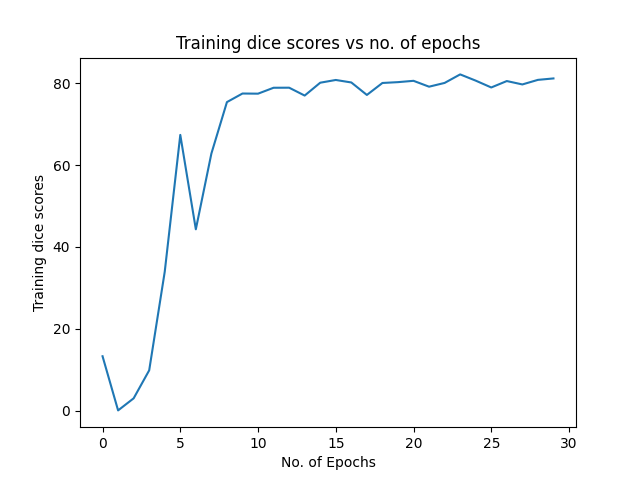
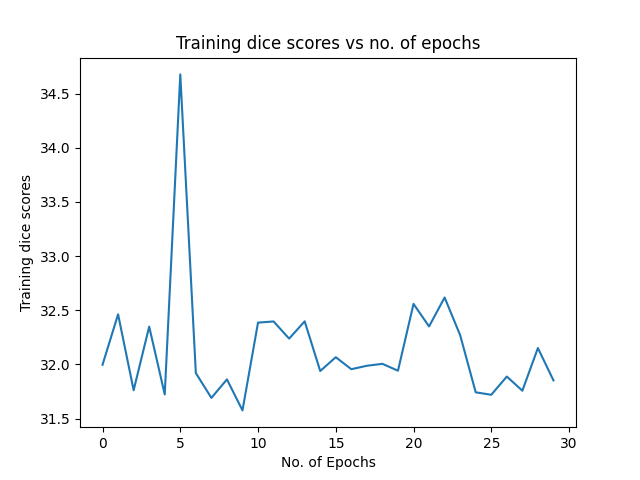
ResNetPlus implementation added

diff --git a/focal_loss.py b/focal_loss.py
@@ -1,91 +1,15 @@
-import numpy as np
 import torch
 import torch.nn as nn
 import torch.nn.functional as F
 
 
 class FocalLoss(nn.Module):
-    """
-    copy from: https://github.com/Hsuxu/Loss_ToolBox-PyTorch/blob/master/FocalLoss/FocalLoss.py
-    This is a implementation of Focal Loss with smooth label cross entropy supported which is proposed in
-    'Focal Loss for Dense Object Detection. (https://arxiv.org/abs/1708.02002)'
-        Focal_Loss= -1*alpha*(1-pt)*log(pt)
-    :param num_class:
-    :param alpha: (tensor) 3D or 4D the scalar factor for this criterion
-    :param gamma: (float,double) gamma > 0 reduces the relative loss for well-classified examples (p>0.5) putting more
-                    focus on hard misclassified example
-    :param smooth: (float,double) smooth value when cross entropy
-    :param balance_index: (int) balance class index, should be specific when alpha is float
-    :param size_average: (bool, optional) By default, the losses are averaged over each loss element in the batch.
-    """
-
-    def __init__(self, apply_nonlin=None, alpha=None, gamma=2, balance_index=0, smooth=1e-5, size_average=True):
+    def __init__(self, alpha=0.25, gamma=2):
         super(FocalLoss, self).__init__()
-        self.apply_nonlin = apply_nonlin
         self.alpha = alpha
         self.gamma = gamma
-        self.balance_index = balance_index
-        self.smooth = smooth
-        self.size_average = size_average
 
-        if self.smooth is not None:
-            if self.smooth < 0 or self.smooth > 1.0:
-                raise ValueError('smooth value should be in [0,1]')
-
-    def forward(self, logit, target):
-        if self.apply_nonlin is not None:
-            logit = self.apply_nonlin(logit)
-        num_class = logit.shape[1]
-
-        if logit.dim() > 2:
-            # N,C,d1,d2 -> N,C,m (m=d1*d2*...)
-            logit = logit.view(logit.size(0), logit.size(1), -1)
-            logit = logit.permute(0, 2, 1).contiguous()
-            logit = logit.view(-1, logit.size(-1))
-        target = torch.squeeze(target, 1)
-        target = target.view(-1, 1)
-        # print(logit.shape, target.shape)
-        # 
-        alpha = self.alpha
-
-        if alpha is None:
-            alpha = torch.ones(num_class, 1)
-        elif isinstance(alpha, (list, np.ndarray)):
-            assert len(alpha) == num_class
-            alpha = torch.FloatTensor(alpha).view(num_class, 1)
-            alpha = alpha / alpha.sum()
-        elif isinstance(alpha, float):
-            alpha = torch.ones(num_class, 1)
-            alpha = alpha * (1 - self.alpha)
-            alpha[self.balance_index] = self.alpha
-
-        else:
-            raise TypeError('Not support alpha type')
-        
-        if alpha.device != logit.device:
-            alpha = alpha.to(logit.device)
-
-        idx = target.cpu().long()
-
-        one_hot_key = torch.FloatTensor(target.size(0), num_class).zero_()
-        one_hot_key = one_hot_key.scatter_(1, idx, 1)
-        if one_hot_key.device != logit.device:
-            one_hot_key = one_hot_key.to(logit.device)
-
-        if self.smooth:
-            one_hot_key = torch.clamp(
-                one_hot_key, self.smooth/(num_class-1), 1.0 - self.smooth)
-        pt = (one_hot_key * logit).sum(1) + self.smooth
-        logpt = pt.log()
-
-        gamma = self.gamma
-
-        alpha = alpha[idx]
-        alpha = torch.squeeze(alpha)
-        loss = -1 * alpha * torch.pow((1 - pt), gamma) * logpt
-
-        if self.size_average:
-            loss = loss.mean()
-        else:
-            loss = loss.sum()
-        return 
+    def forward(self, inputs, targets):
+        bce_loss = F.binary_cross_entropy(inputs,  targets.float())
+        loss = self.alpha * (1 - torch.exp(-bce_loss)) ** self.gamma * bce_loss
+        return loss

diff --git a/model.py b/model.py
@@ -512,7 +512,7 @@ class ResUNET(nn.Module):
         self.up_residual_conv_3 = ResNetBlock(filters[1]+filters[0],filters[0], stride=1, padding=1)
 
         ## output layer
-        self.output_layer = nn.Conv2d(filters[0], 1, kernel_size=1, stride=1,)
+        self.output_layer = nn.Conv2d(filters[0], out_channels, kernel_size=1, stride=1,)
 
     def forward(self, x):
         
@@ -542,14 +542,86 @@ class ResUNET(nn.Module):
         return output
 
 
+class ResUNETPlus(nn.Module):
+    def __init__(self, in_channels=3, out_channels=1, filters=[64, 128, 256, 512, 1024]):
+        super(ResUNETPlus, self).__init__()
 
+        ## input and encoder blocks
+        self.input_layer = nn.Sequential(
+            nn.Conv2d(in_channels, filters[0], kernel_size=3, padding=1),
+            nn.BatchNorm2d(filters[0]),
+            nn.ReLU(),
+            nn.Conv2d(filters[0], filters[0], kernel_size=3, padding=1),
+        )
+        self.input_skip = nn.Sequential(
+            nn.Conv2d(in_channels, filters[0], kernel_size=3, padding=1)
+        )
+
+        self.residual_conv_1 = ResNetBlock(filters[0], filters[1], stride=2, padding=1)
+        self.residual_conv_2 = ResNetBlock(filters[1], filters[2], stride=2, padding=1)
+        self.residual_conv_3 = ResNetBlock(filters[2], filters[3], stride=2, padding=1)
+
+
+        ## bridge
+        self.bridge = ResNetBlock(filters[3], filters[4], stride=2, padding=1)
+
+        ## decoder blocks
+        self.upsample_1 = nn.ConvTranspose2d(filters[4],filters[4], kernel_size=2, stride=2)
+        self.up_residual_conv_1 = ResNetBlock(filters[4]+filters[3],filters[3], stride=1, padding=1)
+
+        self.upsample_2 = nn.ConvTranspose2d(filters[3],filters[3], kernel_size=2, stride=2)
+        self.up_residual_conv_2 = ResNetBlock(filters[3]+filters[2],filters[2], stride=1, padding=1)
+
+        self.upsample_3 = nn.ConvTranspose2d(filters[2],filters[2], kernel_size=2, stride=2)
+        self.up_residual_conv_3 = ResNetBlock(filters[2]+filters[1],filters[1], stride=1, padding=1)
+
+        self.upsample_4 = nn.ConvTranspose2d(filters[1],filters[1], kernel_size=2, stride=2)
+        self.up_residual_conv_4 = ResNetBlock(filters[1]+filters[0],filters[0], stride=1, padding=1)
+
+        ## output layer
+        self.output_layer = nn.Sequential(
+            nn.Conv2d(filters[0], out_channels, kernel_size=1, stride=1,),
+            #nn.Sigmoid(),
+        )
+
+    def forward(self, x):
+        
+        ## Encoder 
+        x1 = self.input_layer(x) + self.input_skip(x)
+        x2 = self.residual_conv_1(x1)
+        x3 = self.residual_conv_2(x2)
+        x4 = self.residual_conv_3(x3)
+
+        ## Bridge
+        x5 = self.bridge(x4)
+
+        ## Decoder
+        x5 = self.upsample_1(x5)
+        x6 = torch.cat([x5, x4], dim=1)
+        x7 = self.up_residual_conv_1(x6)
+
+        x7 = self.upsample_2(x7)
+        x8 = torch.cat([x7, x3], dim=1)
+        x9 = self.up_residual_conv_2(x8)
+
+        x9 = self.upsample_3(x9)
+        x10 = torch.cat([x9, x2], dim=1)
+        x11 = self.up_residual_conv_3(x10)
+
+        x11 = self.upsample_4(x11)
+        x12 = torch.cat([x11, x1], dim=1)
+        x13 = self.up_residual_conv_4(x12)
+
+        output = self.output_layer(x13)
+
+        return output
 
 
 
 def test():
     x = torch.randn((3, 1, 160, 160))
     
-    model = ResUNET(in_channels=1, out_channels=1)
+    model = ResUNETPlus(in_channels=1, out_channels=1)
     print(model)
     preds = model(x)
     print(preds.shape,   x.shape)

diff --git a/train.py b/train.py
@@ -6,8 +6,8 @@ import numpy as np
 
 
 from utils import get_loaders, Fit
-from model import UNET, Attention_UNET, Inception_UNET, Inception_Attention_UNET, ResUNET
-from focal_loss import FocalLoss
+from model import UNET, Attention_UNET, Inception_UNET, Inception_Attention_UNET, ResUNET, ResUNETPlus
+#from focal_loss import FocalLoss
 
 from lookahead import Lookahead
 
@@ -66,10 +66,11 @@ def main():
     )
 
     loss_fn = nn.BCEWithLogitsLoss()
+    #loss_fn = FocalLoss()
 
     
     print("Deep Residual UNET")
-    model = ResUNET(in_channels=3, out_channels=1)
+    model = ResUNETPlus(in_channels=3, out_channels=1)
     model.to(device=DEVICE)
     optimizer = optim.Adam(model.parameters(), lr=LEARNING_RATE,)
     #lookahead = Lookahead(optimizer, k=8, alpha=0.2) 

diff --git a/utils.py b/utils.py
@@ -113,6 +113,7 @@ def check_accuracy(loader, model, device="cuda", validation=True):
     
 def train_fn(loader, model, optimizer, loss_fn, device):
     mean_loss = 0
+   
     for batch_idx, (data, targets) in enumerate(loader):
         if batch_idx <= 14:
             data = data.to(device=device)
